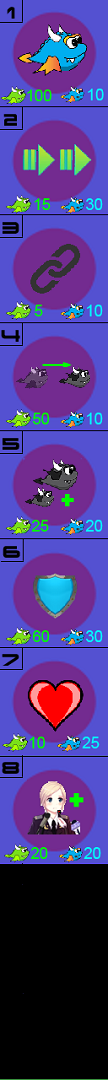
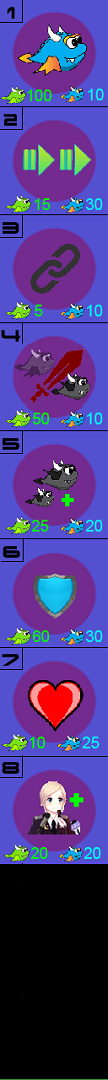
Update Condensator asset & feedbacks & refactor ApplyModuleEffect()

Changed region(s): [[0.1389, 0.3056, 0.8333, 0.3972]]

diff --git a/Unstable/StarFighter/StarFighter/Module.cpp b/Unstable/StarFighter/StarFighter/Module.cpp
@@ -790,11 +790,11 @@ void Module::AutogenerateFlux()
 	}
 }
 
-void Module::ConsummeFluxor(Fluxor* fluxor)
+bool Module::ConsummeFluxor(Fluxor* fluxor)
 {
 	if (fluxor)
 	{
-		if (m_flux < m_flux_max && fluxor->m_flux > 0)
+		if (m_flux < m_flux_max && fluxor->m_flux > 0 && fluxor->m_consummable_by_modules)
 		{
 			if (fluxor->m_transfert_buffer_memory == 0)
 			{
@@ -845,8 +845,12 @@ void Module::ConsummeFluxor(Fluxor* fluxor)
 			{
 				fluxor->m_docked = true;
 			}
+
+			return true;
 		}
 	}
+
+	return false;
 }
 
 bool Module::CondensateFluxor(Fluxor* fluxor)
@@ -883,6 +887,17 @@ bool Module::CondensateFluxor(Fluxor* fluxor)
 						(*CurrentGame).addToFeedbacks(pop_feedback);
 					}
 
+					if (USE_FEEDBACK_CONDENSATION)
+					{
+						SFText* text_feedback = new SFText((*CurrentGame).m_fonts[Font_Arial], 24, sf::Color::Cyan, getPosition(), m_team);
+						text_feedback->m_alliance = m_alliance;
+						text_feedback->setString("Condensed for attack");
+						SFTextPop* pop_feedback = new SFTextPop(text_feedback, TEXT_POP_DISTANCE_NOT_FADED, TEXT_POP_DISTANCE_FADE_OUT, TEXT_POP_LONG_TOTAL_TIME, NULL, sf::Vector2f(0, -TEXT_POP_OFFSET_Y));
+						pop_feedback->setPosition(sf::Vector2f(getPosition().x - pop_feedback->getGlobalBounds().width / 2, getPosition().y));
+						delete text_feedback;
+						(*CurrentGame).addToFeedbacks(pop_feedback);
+					}
+
 					return true;
 				}
 			//}
@@ -892,64 +907,73 @@ bool Module::CondensateFluxor(Fluxor* fluxor)
 	return false;
 }
 
-void Module::AmplifyFluxor(Fluxor* fluxor)
+bool Module::AmplifyFluxor(Fluxor* fluxor)
 {
 	if (fluxor)
 	{
-		if (fluxor->m_transfer_buffer == 0)
+		if (m_flux == m_flux_max && fluxor->m_can_be_refilled_by_modules && (m_isRefillingFlux || m_add_flux > 0) && fluxor->m_can_be_refilled_by_modules)
 		{
-			//increasing potential
-			if (fluxor->m_flux_max > 0 && m_add_flux > 0)
-			{
-				fluxor->m_flux_max += m_add_flux;
-			}
-			//refilling or increasing?
-			fluxor->m_transfer_buffer = m_isRefillingFlux ? fluxor->m_flux_max - fluxor->m_flux : m_add_flux;
-			fluxor->m_transfert_buffer_memory = fluxor->m_transfer_buffer;
-			fluxor->m_flux_transfer_clock.restart();
-		}
+			//if (!fluxor->m_needs_link_to_circulate || m_has_child_to_refill || fluxor->m_condensed_to_circulate)//if it needs a link to circulate and no activated link exists, amplyfing is pointless. Also if no child needs to be refilled.
 
-		if (fluxor->m_transfer_buffer > 0 && fluxor->m_flux_transfer_clock.getElapsedTime().asSeconds() > m_flux_transfer_delay)
-		{
-			fluxor->m_flux++;
-			fluxor->m_transfer_buffer--;
-			fluxor->m_flux_transfer_clock.restart();
-			fluxor->m_flux_waste_clock.restart();
-
-			//fedback once finished
-			if ((m_isRefillingFlux && USE_FEEDBACK_REFILL) || (m_add_flux > 0 && USE_FEEDBACK_AMPLIFICATION))
 			if (fluxor->m_transfer_buffer == 0)
 			{
-				SFText* text_feedback = new SFText((*CurrentGame).m_fonts[Font_Arial], 24, Color::Cyan, getPosition(), m_team);
-				text_feedback->m_alliance = m_alliance;
-				ostringstream ss;
-				if (m_isRefillingFlux)
+				//increasing potential
+				if (fluxor->m_flux_max > 0 && m_add_flux > 0)
 				{
-					ss << "+" << fluxor->m_transfert_buffer_memory;
-					text_feedback->setCharacterSize(16);
+					fluxor->m_flux_max += m_add_flux;
 				}
-				else
-				{
-					ss << "+" << m_add_flux;
-				}
-				text_feedback->setString(ss.str());
-				SFTextPop* pop_feedback = new SFTextPop(text_feedback, TEXT_POP_DISTANCE_NOT_FADED, TEXT_POP_DISTANCE_FADE_OUT, TEXT_POP_TOTAL_TIME, NULL, sf::Vector2f(0, m_size.y/2 - TEXT_POP_FLUXOR_OFFSET_Y));
-				pop_feedback->setPosition(sf::Vector2f(getPosition().x - pop_feedback->getGlobalBounds().width / 2, getPosition().y - TEXT_POP_FLUXOR_OFFSET_Y));
-				delete text_feedback;
-				(*CurrentGame).addToFeedbacks(pop_feedback);
+				//refilling or increasing?
+				fluxor->m_transfer_buffer = m_isRefillingFlux ? fluxor->m_flux_max - fluxor->m_flux : m_add_flux;
+				fluxor->m_transfert_buffer_memory = fluxor->m_transfer_buffer;
+				fluxor->m_flux_transfer_clock.restart();
 			}
-		}
 
-		if (fluxor->m_transfer_buffer == 0)
-		{
-			UndockFluxor(fluxor);
-			fluxor->m_transfert_buffer_memory = 0;
-		}
-		else
-		{
-			fluxor->m_docked = true;
+			if (fluxor->m_transfer_buffer > 0 && fluxor->m_flux_transfer_clock.getElapsedTime().asSeconds() > m_flux_transfer_delay)
+			{
+				fluxor->m_flux++;
+				fluxor->m_transfer_buffer--;
+				fluxor->m_flux_transfer_clock.restart();
+				fluxor->m_flux_waste_clock.restart();
+
+				//fedback once finished
+				if ((m_isRefillingFlux && USE_FEEDBACK_REFILL) || (m_add_flux > 0 && USE_FEEDBACK_AMPLIFICATION))
+				if (fluxor->m_transfer_buffer == 0)
+				{
+					SFText* text_feedback = new SFText((*CurrentGame).m_fonts[Font_Arial], 24, Color::Cyan, getPosition(), m_team);
+					text_feedback->m_alliance = m_alliance;
+					ostringstream ss;
+					if (m_isRefillingFlux)
+					{
+						ss << "+" << fluxor->m_transfert_buffer_memory;
+						text_feedback->setCharacterSize(16);
+					}
+					else
+					{
+						ss << "+" << m_add_flux;
+					}
+					text_feedback->setString(ss.str());
+					SFTextPop* pop_feedback = new SFTextPop(text_feedback, TEXT_POP_DISTANCE_NOT_FADED, TEXT_POP_DISTANCE_FADE_OUT, TEXT_POP_TOTAL_TIME, NULL, sf::Vector2f(0, m_size.y / 2 - TEXT_POP_FLUXOR_OFFSET_Y));
+					pop_feedback->setPosition(sf::Vector2f(getPosition().x - pop_feedback->getGlobalBounds().width / 2, getPosition().y - TEXT_POP_FLUXOR_OFFSET_Y));
+					delete text_feedback;
+					(*CurrentGame).addToFeedbacks(pop_feedback);
+				}
+			}
+
+			if (fluxor->m_transfer_buffer == 0)
+			{
+				UndockFluxor(fluxor);
+				fluxor->m_transfert_buffer_memory = 0;
+			}
+			else
+			{
+				fluxor->m_docked = true;
+			}
+
+			return true;
 		}
 	}
+
+	return false;
 }
 
 void Module::AttackModule(Fluxor* fluxor)
@@ -1053,26 +1077,11 @@ void Module::ApplyModuleEffect(Fluxor* fluxor)
 
 			if (!m_under_construction)
 			{
-				//module "condensation"
-				if (!CondensateFluxor(fluxor))
+				if (!ConsummeFluxor(fluxor))
 				{
-					//module "refill/amplify fluxor"
-					if (fluxor->m_can_be_refilled_by_modules)
-					{
-						if (m_flux == m_flux_max && (m_isRefillingFlux || m_add_flux > 0) && fluxor->m_can_be_refilled_by_modules)
-						{
-							if (!fluxor->m_needs_link_to_circulate || m_has_child_to_refill || fluxor->m_condensed_to_circulate)//if it needs a link to circulate and no activated link exists, amplyfing is pointless. Also if no child needs to be refilled.
-							{
-								AmplifyFluxor(fluxor);
-							}
-						}
-					}
+					CondensateFluxor(fluxor);
 
-					//consumption (automatic) - must be done last
-					if (fluxor->m_consummable_by_modules)
-					{
-						ConsummeFluxor(fluxor);
-					}
+					AmplifyFluxor(fluxor);
 				}
 			}
 

diff --git a/Unstable/StarFighter/StarFighter/Globals.h b/Unstable/StarFighter/StarFighter/Globals.h
@@ -72,6 +72,7 @@ enum TeamAlliances
 #define USE_FEEDBACK_AUTOGENERATION					true
 #define USE_FEEDBACK_GENERATE_FLUXOR				true
 #define USE_FEEDBACK_WASTING						false
+#define USE_FEEDBACK_CONDENSATION					true
 #define USE_FEEDBACK_CONSUMPTION					true
 #define USE_FEEDBACK_AMPLIFICATION					true
 #define USE_FEEDBACK_REFILL							true
@@ -83,7 +84,7 @@ enum TeamAlliances
 #define TEXT_POP_DISTANCE_NOT_FADED					40
 #define TEXT_POP_DISTANCE_FADE_OUT					30
 #define TEXT_POP_TOTAL_TIME							1.0f
-#define TEXT_POP_LONG_TOTAL_TIME					1.5f
+#define TEXT_POP_LONG_TOTAL_TIME					1.8f
 #define TEXT_POP_FLUXOR_DISTANCE_NOT_FADED			20
 #define TEXT_POP_FLUXOR_DISTANCE_FADE_OUT			10
 #define TEXT_POP_FLUXOR_TOTAL_TIME					0.6f

diff --git a/Unstable/StarFighter/StarFighter/Module.h b/Unstable/StarFighter/StarFighter/Module.h
@@ -90,8 +90,8 @@ public :
 	bool CondensateFluxor(Fluxor* fluxor);
 
 	//Flux transfer to Fluxors
-	void ConsummeFluxor(Fluxor* fluxor);
-	void AmplifyFluxor(Fluxor* fluxor);
+	bool ConsummeFluxor(Fluxor* fluxor);
+	bool AmplifyFluxor(Fluxor* fluxor);
 	float m_flux_transfer_delay;
 	sf::Clock m_flux_consumption_clock;
 
